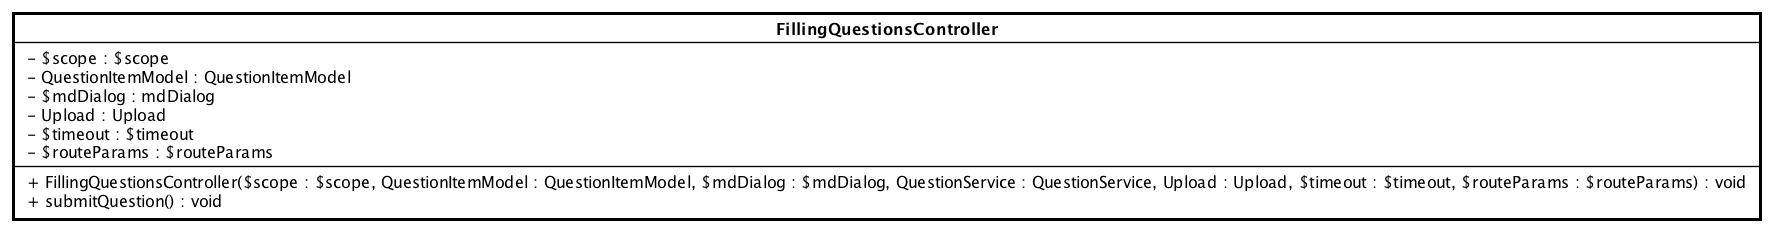
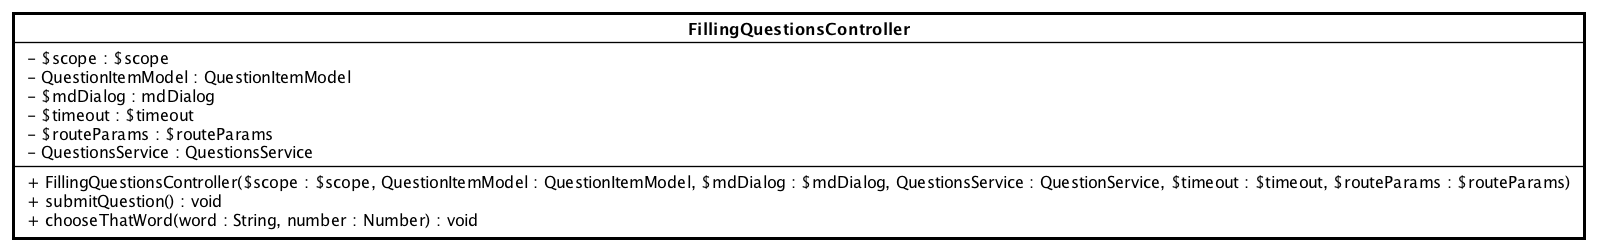
Update FillingQuestionsController

Changed region(s): [[0.0, 0.0302, 1.0, 0.9655]]

diff --git a/RP/DefinizioneDiProdotto/sezioni/Front-End/Controllers/QuizziPedia_Front-End_Controllers_FillingQuestionsController.tex b/RP/DefinizioneDiProdotto/sezioni/Front-End/Controllers/QuizziPedia_Front-End_Controllers_FillingQuestionsController.tex
@@ -24,16 +24,20 @@
 		Campo dati contenente un riferimento all’oggetto \$scope creato da \textit{Angular\ped{G}}, viene utilizzato come mezzo di comunicazione tra il controller e la view. Contiene gli oggetti che definiscono il model dell’applicazione;
 		\item \texttt{-} \texttt{QuestionItemModel: QuestionItemModel} \\
 		Campo dati che si riferisce alla classe che rappresenta il modello della classe;
+		\item \texttt{- \$timeout: \$timeout} \\
+		Attributo contenente il riferimento all'oggetto globale \$timeout creato da \textit{Angular.js\ped{G}}. 
+		Il valore di ritorno di una chiamata alla funzione di \texttt{\$timeout} è una promise, la quale sarà risolta quando avverrà il ritardo e la funzione di timeout eseguita; 
+		Campo dati contenente il riferimento all'oggetto globale \$routeParams creato da \textit{Angular.js\ped{G}}. Tale servizio permette di recuperare il set di variabili presenti nell'url;
 		\item \texttt{-} \texttt{\$mdDialog: \$mdDialog} \\
 		Campo dati contenente un riferimento al servizio della libreria \textit{Material for Angular\ped{G}} che permette di creare delle componenti a popup;
-		\item \texttt{-} \texttt{QuestionService: QuestionService}: ;
-		\item \texttt{\$routeParams: \$routeParams} \\
-		Campo dati contenente il riferimento all'oggetto globale \$routeParams creato da \textit{Angular.js\ped{G}}. Tale servizio permette di recuperare il set di variabili presenti nell'url; 
+		\item \texttt{-} \texttt{QuestionService: QuestionService}: Parametro contenente un riferimento al servizio che si occupa della gestione delle informazioni legate alle domande;
+		\item \texttt{- \$routeParams: \$routeParams} \\ Parametro contenente il riferimento all'oggetto globale \$routeParams creato da \textit{Angular.js\ped{G}}. Tale servizio permette di recuperare il set di variabili presenti nell'url;
 	\end{itemize}
 	\item \textbf{Metodi}:
 	\begin{itemize}
-		\item \texttt{+} \texttt{FillingQuestionsController(\$scope: \$scope, QuestionItemModel: QuestionItemModel, \$mdDialog: \$mdDialog, QuestionService: QuestionService)} \\ 
+		\item \texttt{+} \texttt{FillingQuestionsController(\$scope: \$scope, QuestionItemModel: QuestionItemModel, \$mdDialog: \$mdDialog, \$timeout: \$timeout, QuestionService: QuestionService, \$routeParams: \$routeParams)} \\ 
 		Metodo costruttore della classe. Se in \texttt{\$routeParams} sarà presente il codice univoco che rappresenta una domanda e di questa il creatore è l'utente autenticato, allora verrà scaricato attraverso il \texttt{QuestionService} il contenuto della domanda così da poterlo modificare. In caso contrario verrà mostrato un errore attraverso \texttt{\$mdDialog} indicando che i privilegi per tale operazione sono negati. Nel caso in cui non ci sarà tale parametro in \texttt{\$routeParams} verrà caricata la view vuota così da poter creare una nuova domanda; \\
+		Parametro contenente il riferimento all'oggetto globale \$routeParams creato da \textit{Angular.js\ped{G}}. Tale servizio permette di recuperare il set di variabili presenti nell'url.
 		\textbf{Parametri}:
 		\begin{itemize}
 			\item \texttt{\$scope: \$scope} \\
@@ -44,8 +48,6 @@
 			Parametro contenente un riferimento al servizio della libreria \textit{Material for Angular\ped{G}} che permette di creare delle componenti a popup;
 			\item \texttt{QuestionService: QuestionService}: \\
 			Parametro contenente un riferimento al servizio che si occupa della gestione delle informazioni legate alle domande;
-			\item \texttt{Upload: Upload} \\
-			Parametro contenente un riferimento alla libreria \textit{ng-file-upload\ped{G}} necessaria per il caricamento della foto profilo dell'utente;
 			\item \texttt{\$timeout: \$timeout} \\
 			Parametro contenente il riferimento all'oggetto globale \$timeout creato da \textit{Angular.js\ped{G}}. 
 			Il valore di ritorno di una chiamata alla funzione di \texttt{\$timeout} è una promise, la quale sarà risolta quando avverrà il ritardo e la funzione di timeout eseguita; 
